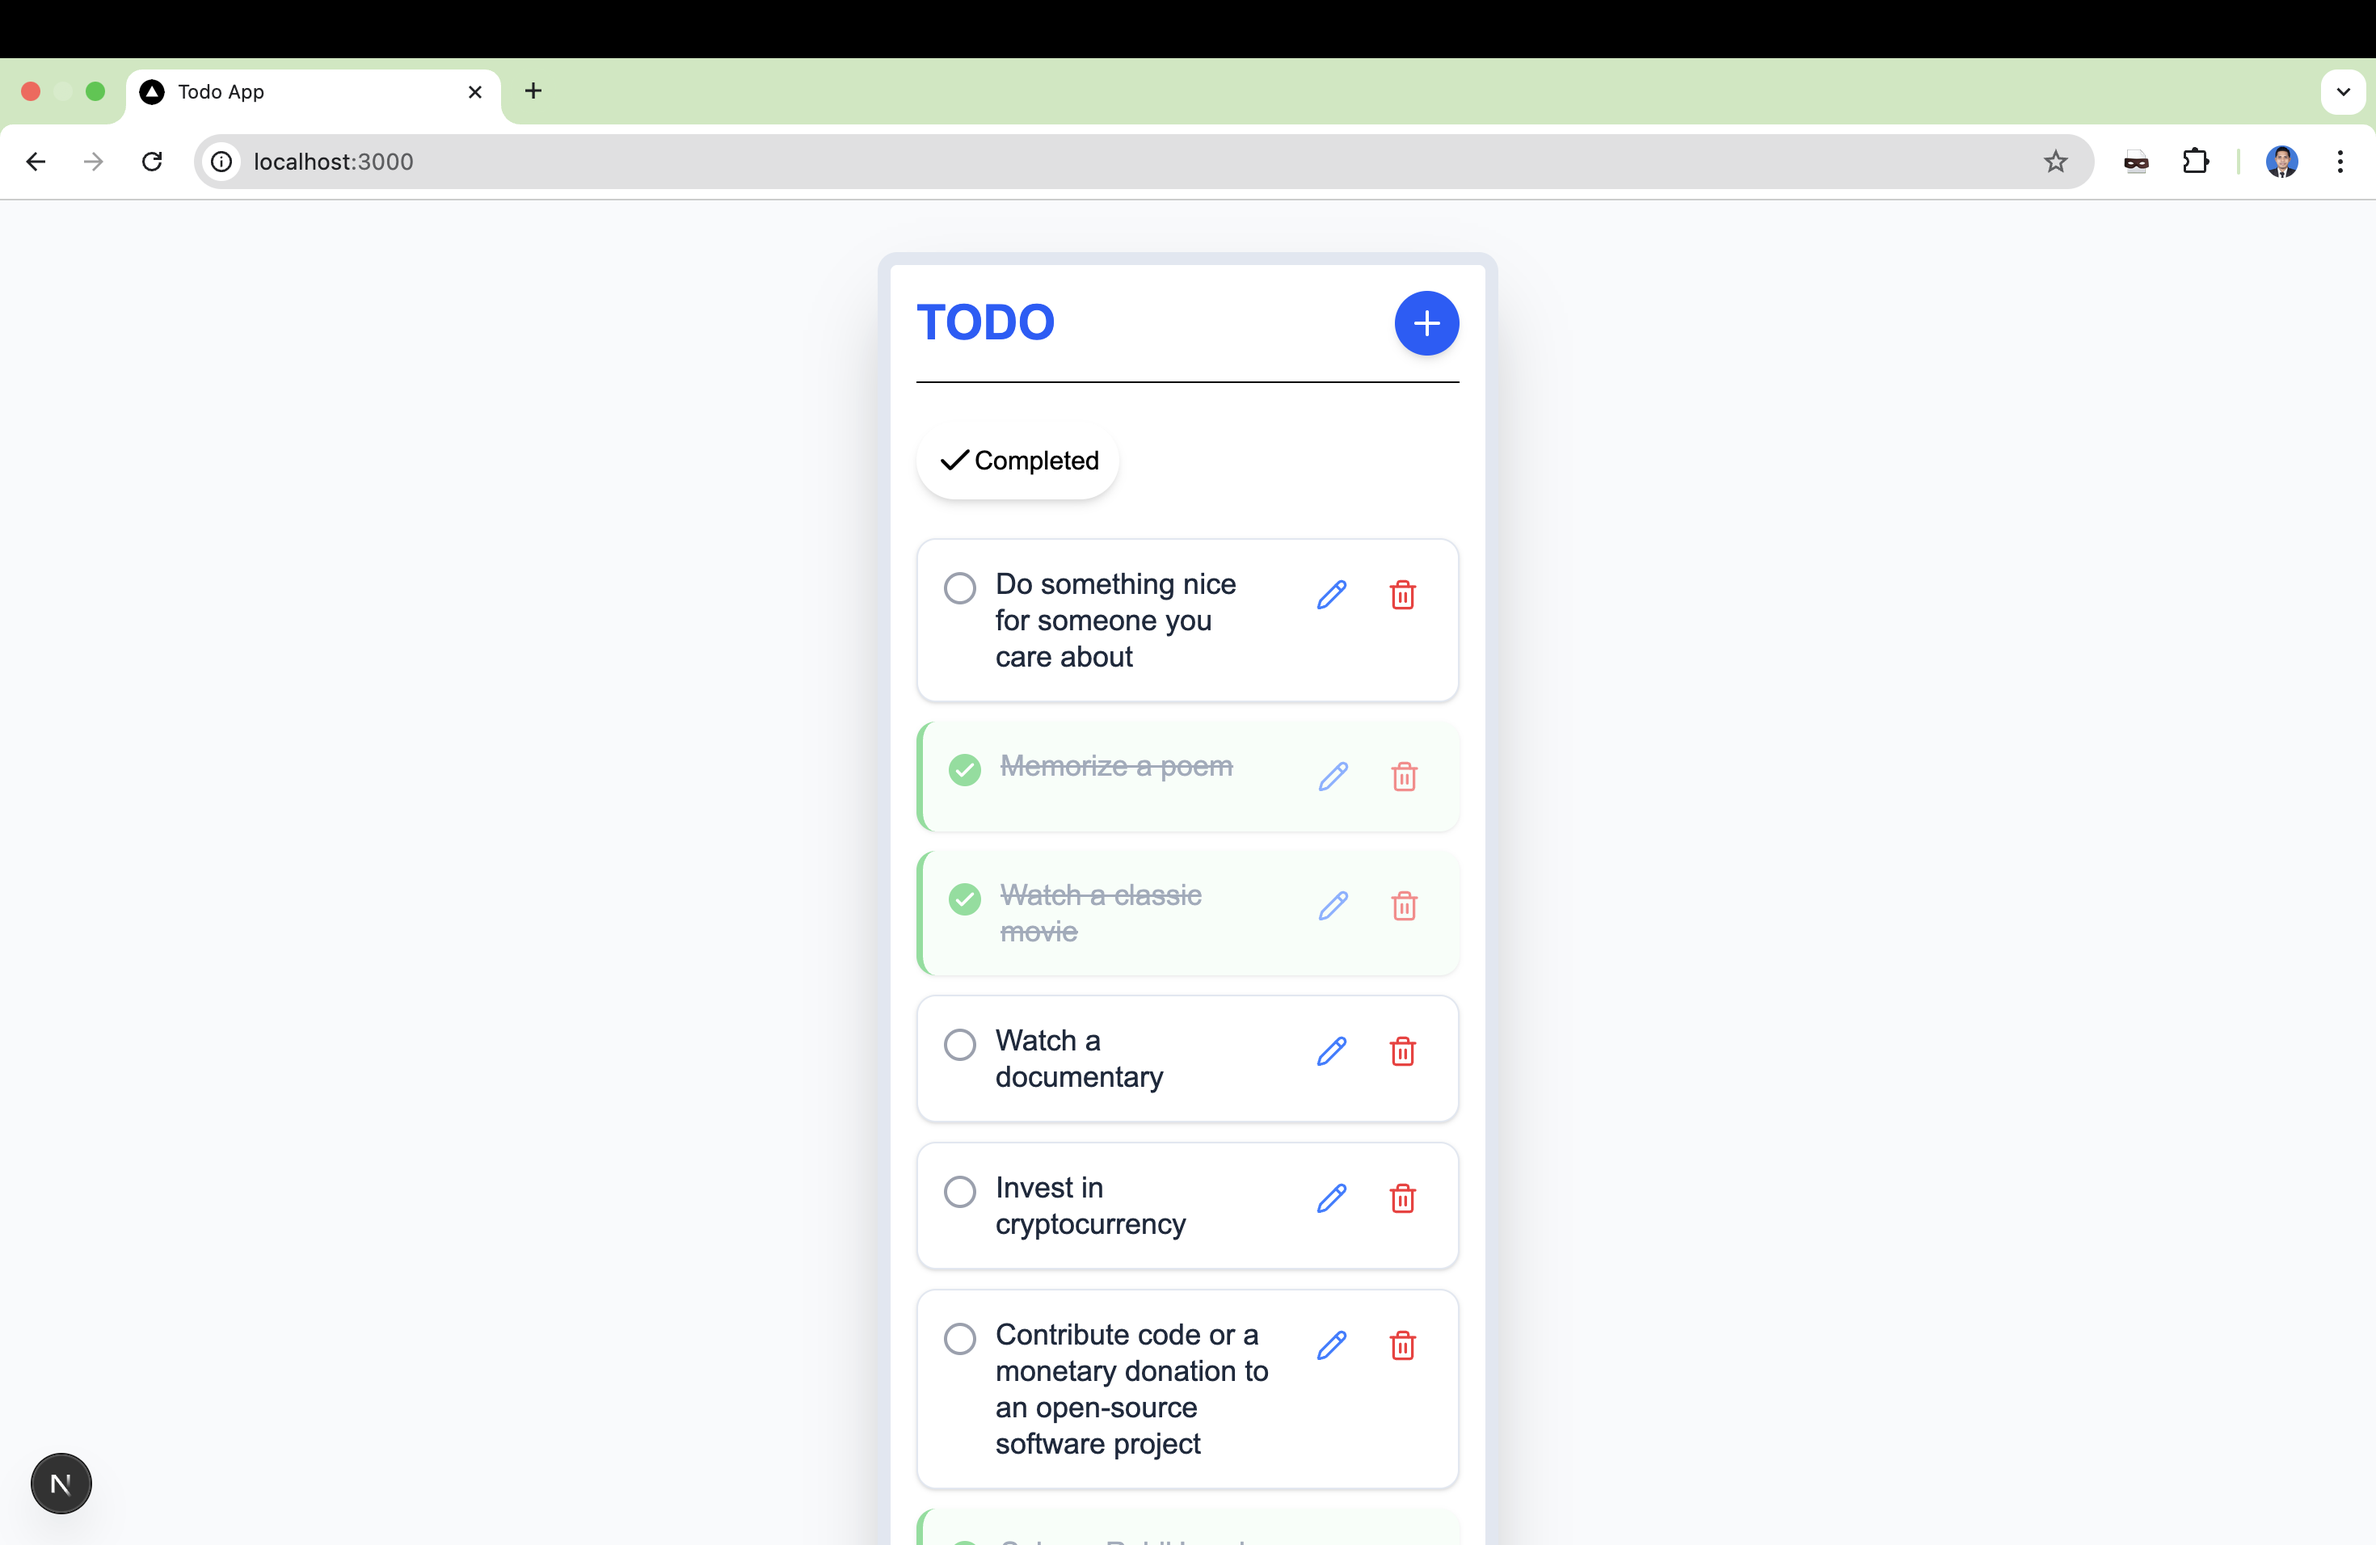
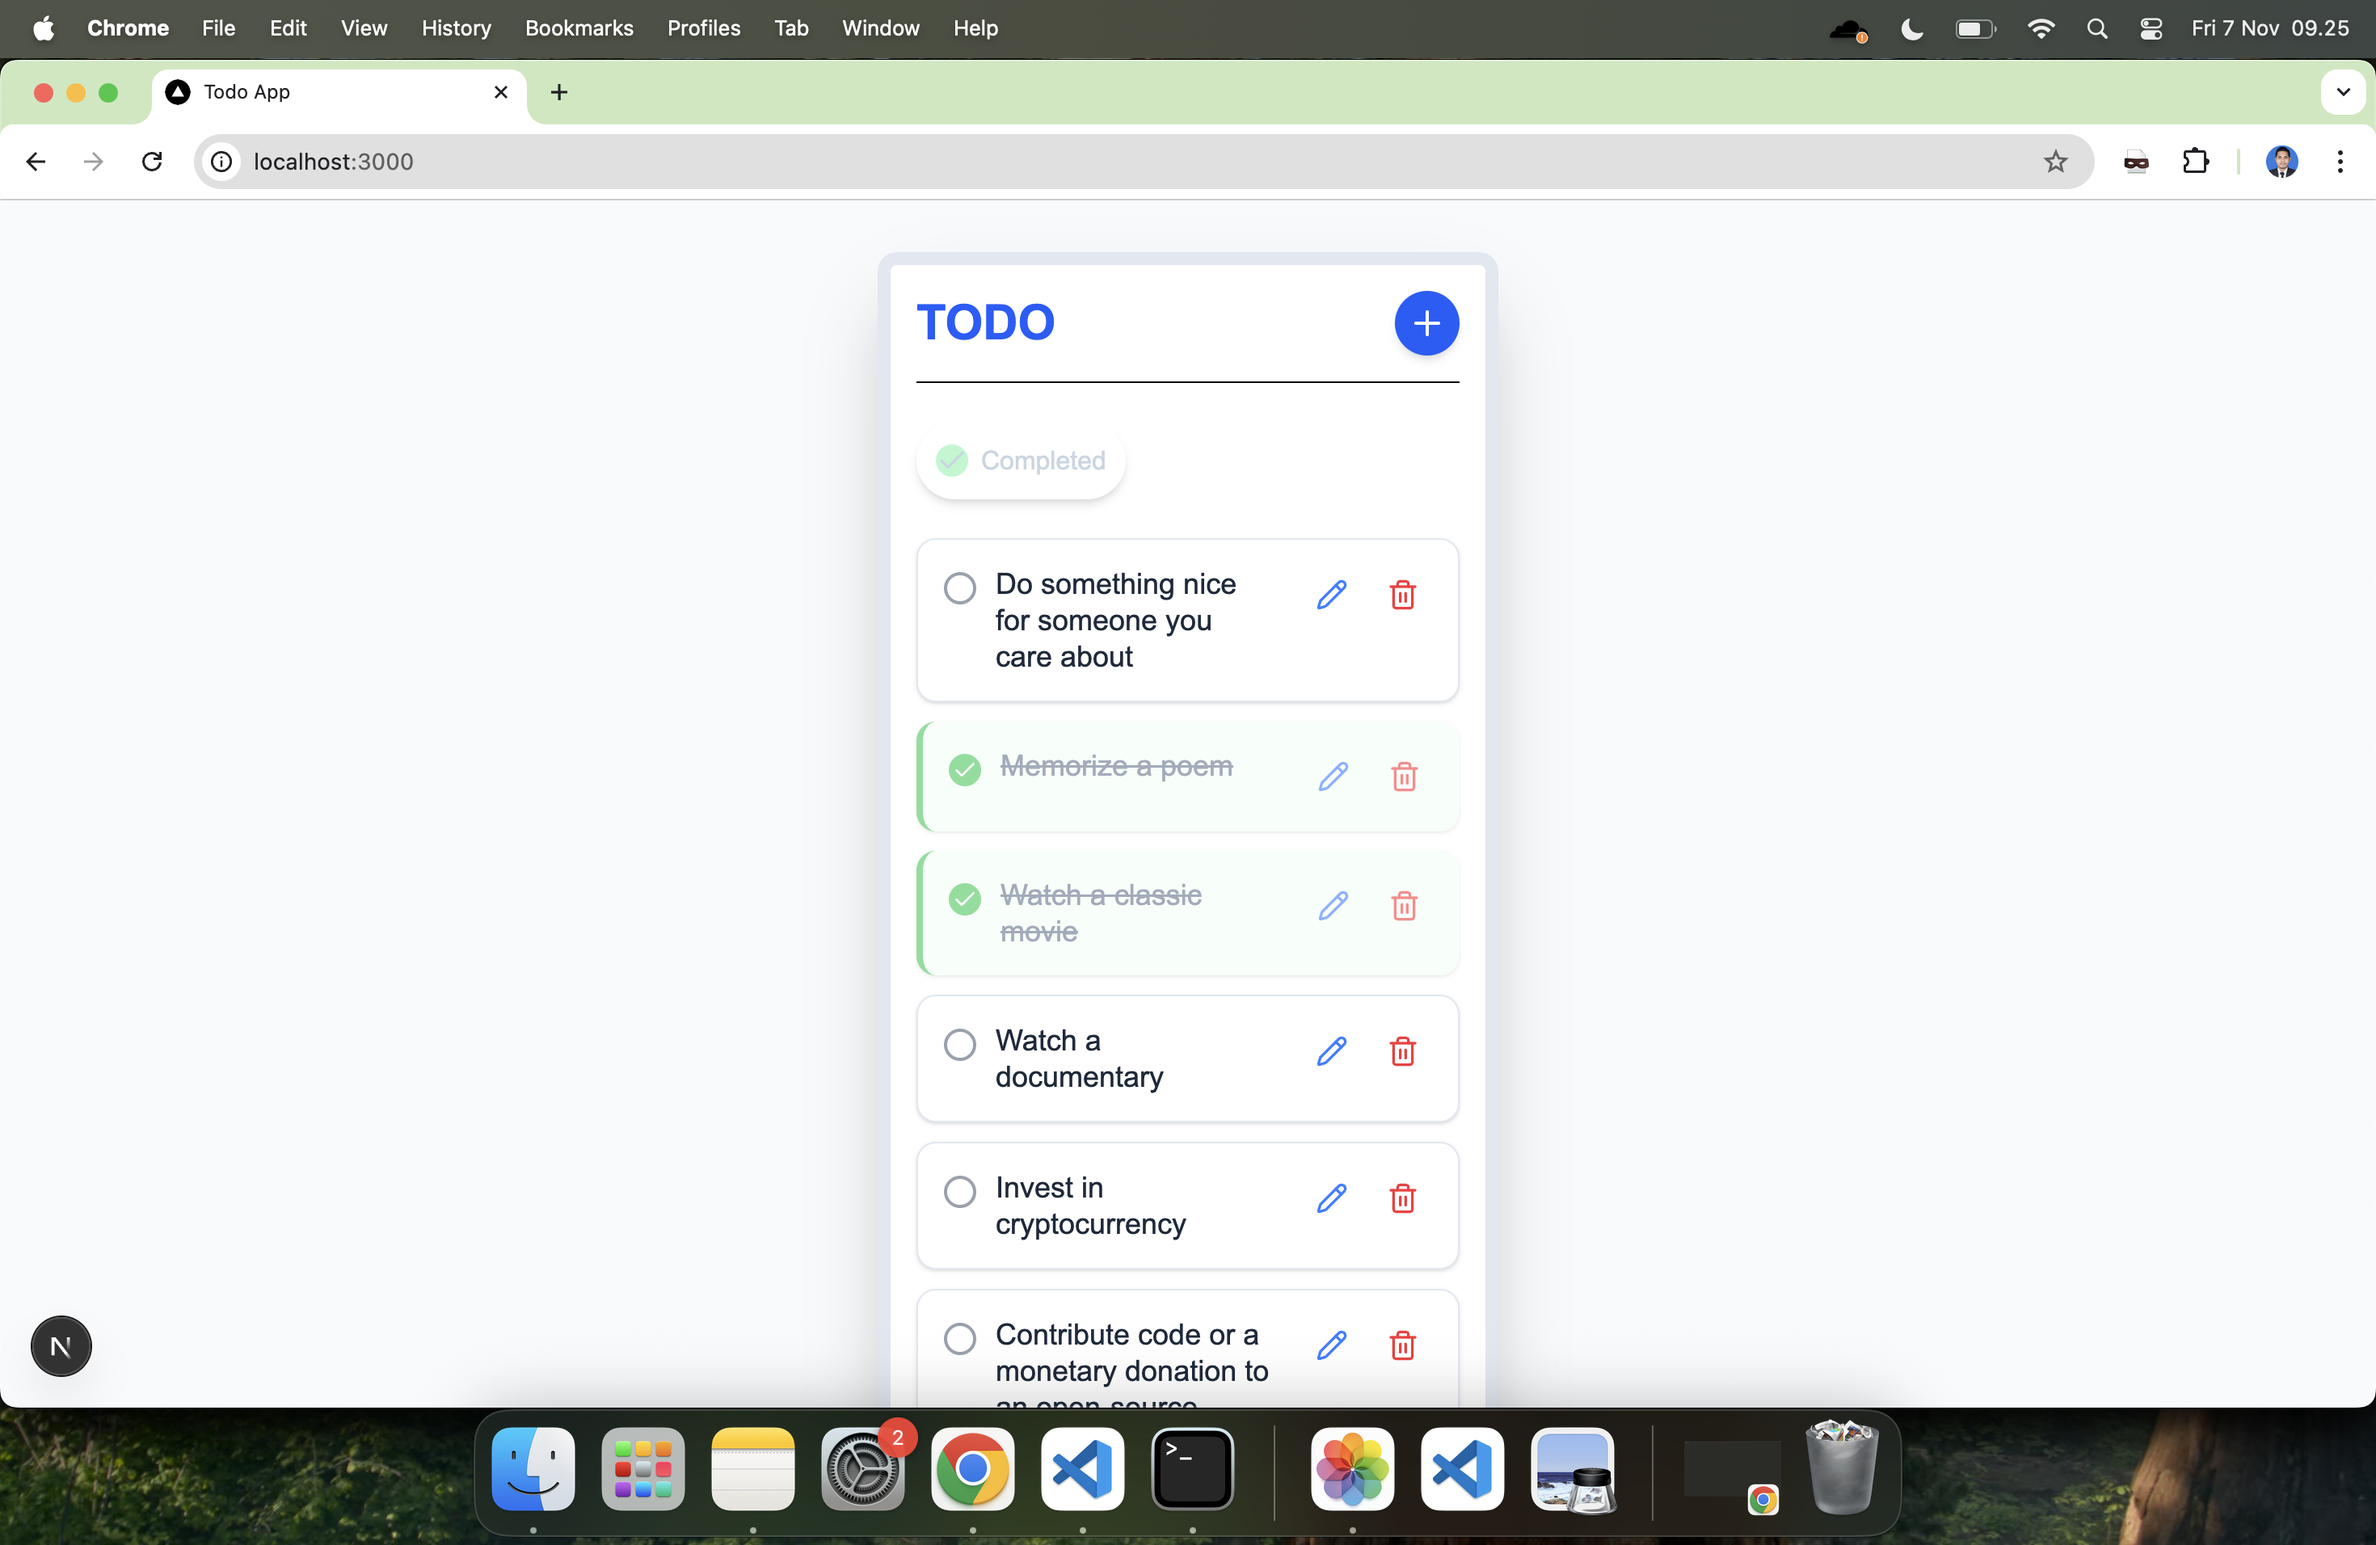
change image

Changed region(s): [[0.0, 0.8332, 1.0, 1.0], [0.0, 0.0, 1.0, 0.0926], [0.3714, 0.2777, 0.4643, 0.3086]]

diff --git a/app/features/todo/components/TodoList.tsx b/app/features/todo/components/TodoList.tsx
@@ -1,6 +1,7 @@
+import { DUMMY_TODOS } from "@/app/utils/constant";
 import { normalizeData } from "@/app/utils/normalizedData";
-import { Check, LoaderCircle, Plus, SortAsc } from "lucide-react";
-import { Dispatch, SetStateAction, use, useEffect, useState } from "react";
+import { Check, LoaderCircle, Plus } from "lucide-react";
+import { Dispatch, SetStateAction, useEffect, useState } from "react";
 import { useDispatch, useSelector } from "react-redux";
 import { useFetch } from "../hooks/usefetch";
 import { setStatus } from "../slice/initDataSlice";
@@ -8,14 +9,13 @@ import { addInitData } from "../slice/todoSlice";
 import { ApiTodo, Todo } from "../types";
 import TodoCard from "./TodoCard";
 
-const DUMMY_TODOS = "https://dummyjson.com/todos";
-
 const TodoList = ({
   setCurrentView,
 }: {
   setCurrentView: Dispatch<SetStateAction<string>>;
 }) => {
   const todos = useSelector((state: { todos: Todo[] }) => state.todos ?? []);
+
   const initData = useSelector(
     (state: { initData: boolean }) => state.initData ?? false
   );
@@ -42,7 +42,9 @@ const TodoList = ({
     if (isSorted) {
       setDisplayData(sortedTodos);
     } else {
-      setDisplayData(todos);
+      const s = [...todos].sort((a, b) => a.createdAt - b.createdAt);
+
+      setDisplayData(s);
     }
   }, [isSorted, todos]);
 
@@ -88,17 +90,23 @@ const TodoList = ({
             <>
               <button
                 aria-label="Sort todos"
-                className="relative flex items-center p-3 bg-white rounded-full shadow-md hover:bg-slate-100 transition duration-200 mb-6"
+                className={`relative flex items-center p-3 space-x-2 text-slate-300 ${
+                  isSorted ? "bg-green-500 text-white" : "bg-white"
+                } rounded-full shadow-md hover:bg-slate-100 transition duration-200 mb-6`}
                 onClick={() => setIsSorted(!isSorted)}
               >
-                <Check />
-                Completed
+                <Check
+                  className={`w-5 h-5 rounded-full ${
+                    isSorted ? "text-green-500 bg-green-50" : "text-slate-300 bg-green-200"
+                  }`}
+                />
+                <span>Completed</span>
               </button>
               {displayData.map((todo) => (
                 <TodoCard
                   key={todo.id}
                   {...todo}
-                  onSave={() => setCurrentView("add")}
+                  onSave={() => setCurrentView("list")}
                 />
               ))}
             </>

diff --git a/app/features/todo/components/TodoCard.tsx b/app/features/todo/components/TodoCard.tsx
@@ -5,7 +5,7 @@ import {
   toggleTodo,
 } from "@/app/features/todo/slice/todoSlice";
 import { Todo } from "@/app/features/todo/types";
-import { Pencil, Save, Trash2 } from "lucide-react";
+import { Check, Pencil, Save, Trash2 } from "lucide-react";
 import { useState } from "react";
 import { useDispatch } from "react-redux";
 
@@ -33,7 +33,6 @@ const TodoCard = ({
 
   const handleSave = () => {
     if (!todoItem.name.trim()) return;
-
     dispatch(
       editTodo({
         id: todoItem.id,
@@ -134,22 +133,7 @@ const TodoCard = ({
                   : "border-gray-400 hover:bg-gray-200"
               }`}
             >
-              {isCompleted && (
-                <svg
-                  xmlns="http://www.w3.org/2000/svg"
-                  className="h-4 w-4 text-white"
-                  fill="none"
-                  viewBox="0 0 24 24"
-                  stroke="currentColor"
-                >
-                  <path
-                    strokeLinecap="round"
-                    strokeLinejoin="round"
-                    strokeWidth={3}
-                    d="M5 13l4 4L19 7"
-                  />
-                </svg>
-              )}
+              {isCompleted && <Check className="w-4 h-4 text-white" />}
             </div>
           </div>
 

diff --git a/app/utils/constant.ts b/app/utils/constant.ts
@@ -1,0 +1,1 @@
+export const DUMMY_TODOS = "https://dummyjson.com/todos";
